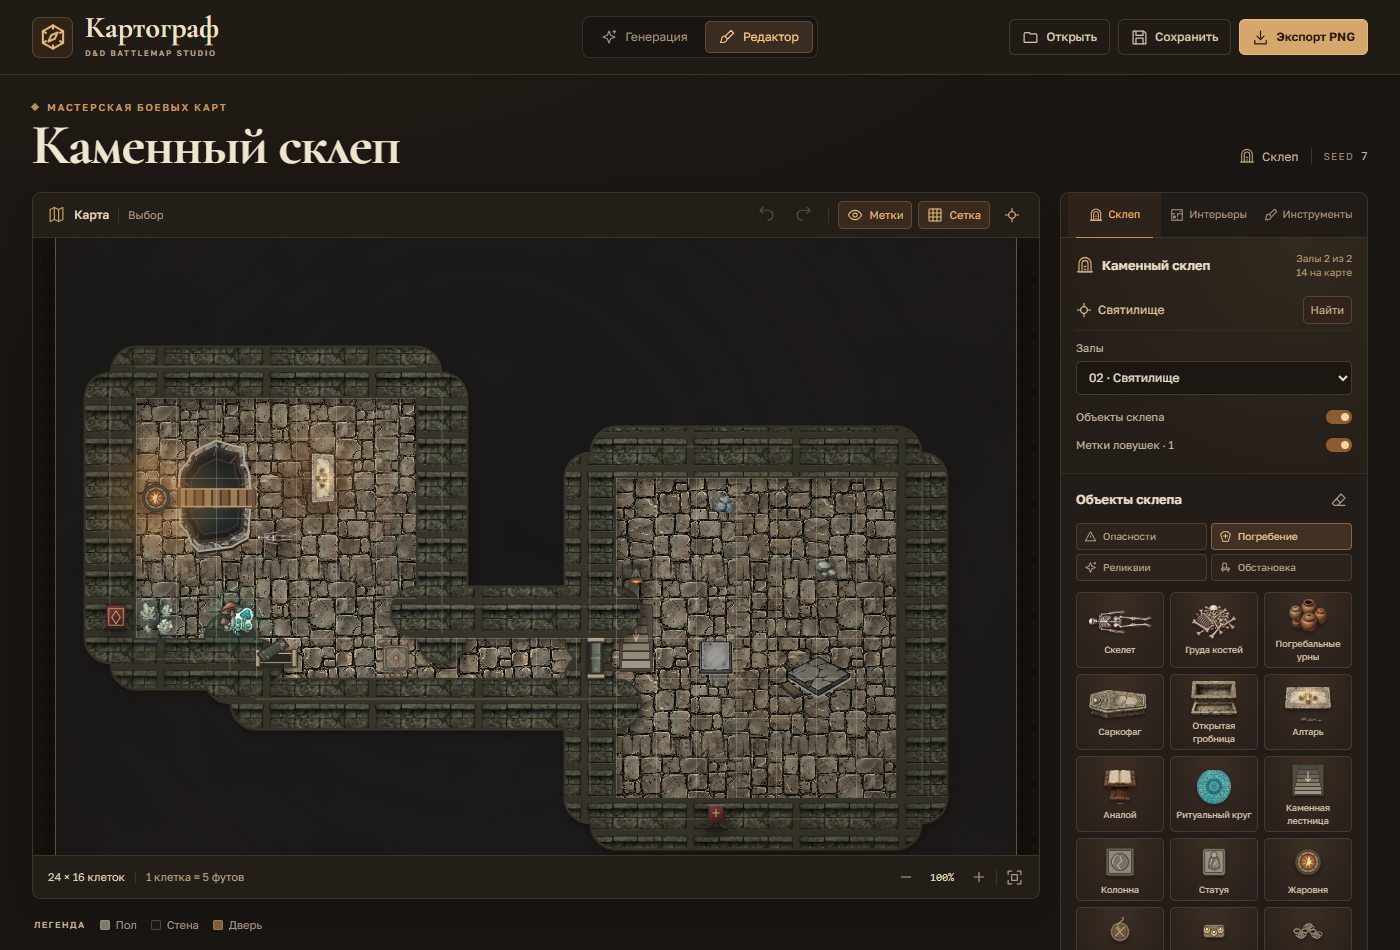
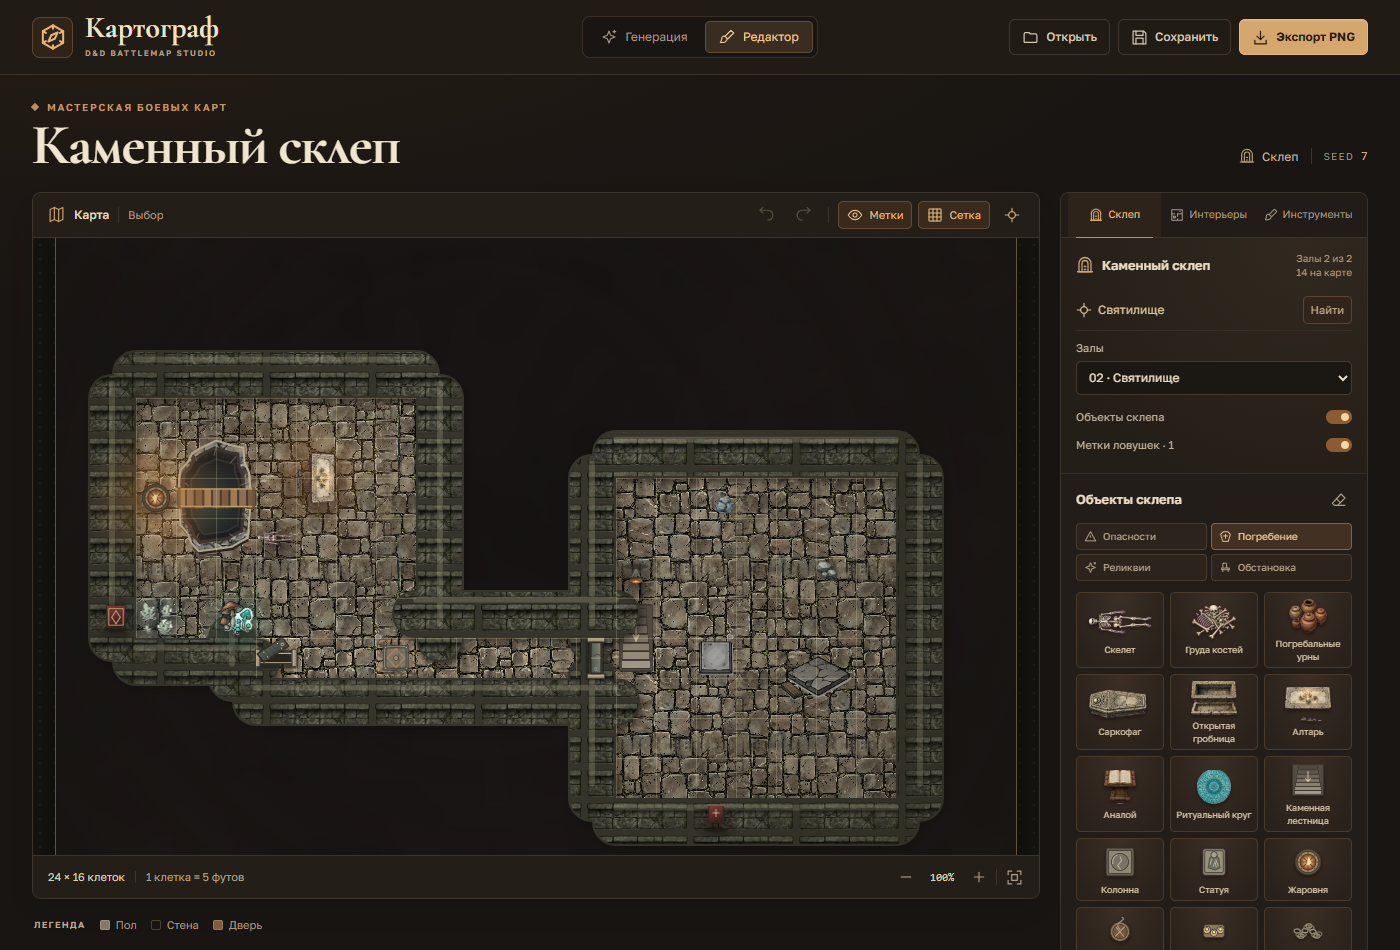
fix: ровный фон и тонкая каменная кромка стен

diff --git a/src/components/ControlPanel.tsx b/src/components/ControlPanel.tsx
@@ -90,7 +90,7 @@ export default function ControlPanel({ gen, render, onGen, onRender, onRandomSee
     <details className="sidebar-section generation-fields">
       <summary className="section-heading"><h2>Сетка и вид</h2><Icon name="chevron" size={15} className="section-symbol" /></summary>
       <Slider label="Разрешение клетки (px)" value={render.cellSize} min={16} max={72} step={2} onChange={(cellSize) => onRender({ cellSize })} />
-      {isDungeon && <Slider label="Толщина стен" value={render.wallThickness} min={0.25} max={1.6} step={0.02} format={(v) => v.toFixed(2) + ' кл.'} onChange={(wallThickness) => onRender({ wallThickness })} />}
+      {isDungeon && <Slider label="Толщина стен" value={render.wallThickness} min={0.15} max={1.2} step={0.01} format={(v) => v.toFixed(2) + ' кл.'} onChange={(wallThickness) => onRender({ wallThickness })} />}
       <Toggle label="Сетка" checked={render.showGrid} onChange={(showGrid) => onRender({ showGrid })} />
       {render.showGrid && <>
         <label className="field-label">Тип сетки<select aria-label="Тип сетки" value={render.gridType} onChange={(e) => onRender({ gridType: e.target.value === 'hex' ? 'hex' : 'square' })}><option value="square">Квадратная</option><option value="hex">Гексагональная</option></select></label>

diff --git a/src/lib/wallPaint.ts b/src/lib/wallPaint.ts
@@ -30,7 +30,7 @@ export function drawWalls(
   const wall = art['wall-straight'];
   if (!wall) return false;
 
-  const band = cs * Math.max(0.2, Math.min(1.7, wallThickness));
+  const band = cs * Math.max(0.12, Math.min(1.3, wallThickness));
   const offset = band / 2;
 
   const segments: [number, number, number, number][] = [];
@@ -80,12 +80,12 @@ export function drawWalls(
   }
 
   // Светлая кромка сверху: читается как верх кладки.
-  ctx.strokeStyle = 'rgba(184,176,146,.22)';
-  ctx.lineWidth = Math.max(1, cs * 0.04);
-  ctx.translate(0, -cs * 0.13);
+  ctx.strokeStyle = 'rgba(184,176,146,.26)';
+  ctx.lineWidth = Math.max(1, band * 0.12);
+  ctx.translate(0, -band * 0.30);
   path();
   ctx.stroke();
-  ctx.translate(0, cs * 0.13);
+  ctx.translate(0, band * 0.30);
   ctx.restore();
   return true;
 }

diff --git a/src/lib/project.ts b/src/lib/project.ts
@@ -57,7 +57,7 @@ export function validateProject(v: unknown): v is ImportProject {
   if (!['square', 'hex'].includes(String(r.gridType))) return false;
   if (![r.showGrid, r.shading, r.texture, r.showTrees, r.showRocks, r.showStructures, r.vignette].every(bool)) return false;
   if (![r.showChests, r.showCivic, r.showRoofs, r.showCrypt, r.showSecrets].every((value) => value === undefined || bool(value))) return false;
-  if (r.wallThickness !== undefined && !finite(r.wallThickness, 0.25, 1.6)) return false;
+  if (r.wallThickness !== undefined && !finite(r.wallThickness, 0.15, 1.2)) return false;
   if (v.map !== null) {
     const m = v.map;
     if (!record(m) || m.width !== g.width || m.height !== g.height || m.biome !== g.biome) return false;

diff --git a/src/lib/palette.ts b/src/lib/palette.ts
@@ -7,9 +7,9 @@ export const TERRAIN_COLORS: Record<Terrain, RGB> = {
   grass: [131, 137, 77], darkGrass: [88, 103, 60], dirt: [135, 108, 86], mud: [83, 79, 56],
   rock: [126, 124, 115], snow: [215, 224, 229], ice: [163, 190, 203],
   road: [164, 135, 97], bridge: [135, 99, 60], floor: [128, 122, 107],
-  wall: [28, 25, 24], door: [130, 91, 56], caveFloor: [112, 108, 96],
+  wall: [24, 19, 16], door: [130, 91, 56], caveFloor: [112, 108, 96],
   caveWall: [50, 49, 45], plaza: [177, 163, 140], buildingFloor: [145, 120, 88],
-  buildingWall: [168, 157, 139], roof: [155, 109, 72], void: [28, 25, 24],
+  buildingWall: [168, 157, 139], roof: [155, 109, 72], void: [24, 19, 16],
 };
 
 export const TERRAIN_LABELS: Record<Terrain, string> = {

diff --git a/src/lib/presets.ts b/src/lib/presets.ts
@@ -56,7 +56,7 @@ export const DEFAULT_RENDER: RenderSettings = {
   gridColor: '#e5d9b9',
   shading: true,
   texture: true,
-  wallThickness: 0.78,
+  wallThickness: 0.34,
   showTrees: true,
   showRocks: true,
   showStructures: true,

diff --git a/README.md b/README.md
@@ -31,7 +31,7 @@
 - У каждого предмета указана роль размещения: вдоль стен, в центре зала или в углу. Проходы между комнатами и дверные проёмы остаются свободными, а тайные ловушки не попадают на проход.
 - Между комнатами получается одна перегородка: внутренний слой двойной стены убирается, поэтому в склепе больше нет рядов стен в два ряда.
 - Фон карты и клетки стен — ровный тёмный цвет без светлых пятен; каменная лента стены идёт по контуру пола, углы скругляются, отдельных квадратных блоков и щелей между клетками нет.
-- В разделе «Сетка и вид» есть ползунок «Толщина стен» (0,25–1,6 клетки): можно вручную подобрать толщину под стиль карты, значение сохраняется в проекте.
+- В разделе «Сетка и вид» есть ползунок «Толщина стен» (0,15–1,2 клетки, по умолчанию 0,34): можно вручную подобрать толщину под стиль карты, значение сохраняется в проекте.
 - Предмет выбирается клавишей `V` и кликом, после чего его можно двигать зажатой левой кнопкой мыши — в том числе с любым другим инструментом. Клавиши-стрелки для движения убраны. Поворот на 180° доступен кнопкой в инспекторе.
 - В «Склепе» 224 вида объектов в четырёх категориях: опасности, погребение, реликвии и обстановка. В каждой категории не меньше 20 предметов.
 - Из спрайт-листа добавлены 26 природных объектов: валуны и осыпи, сталагмиты и сталактиты, лужи (вода, грязь, кислота), каменный колодец, мох, кустарник, плющ на стене, корни, лишайник, трещины, гнёзда, кости, брёвна и кристаллы. Белый фон у спрайтов удалён, все WebP прозрачные.

diff --git a/docs/crypt/README.md b/docs/crypt/README.md
@@ -38,5 +38,5 @@
   идёт по контуру пола, углы скруглены, отдельных квадратных блоков и щелей
   нет; комнаты получают ниши-альковы.
 - `wall-thickness-ui.png` — ползунок «Толщина стен» в разделе «Сетка и вид»;
-  `wall-thickness-thin.png`, `wall-thickness-thick.png` — примеры 0,42 и 1,30 клетки.
+  `wall-thickness-thin.png`, `wall-thickness-thick.png` — примеры 0,42 и 1,20 клетки.
 - `seed-1337-report.json` — выгрузка залов и предметов для проверки.
